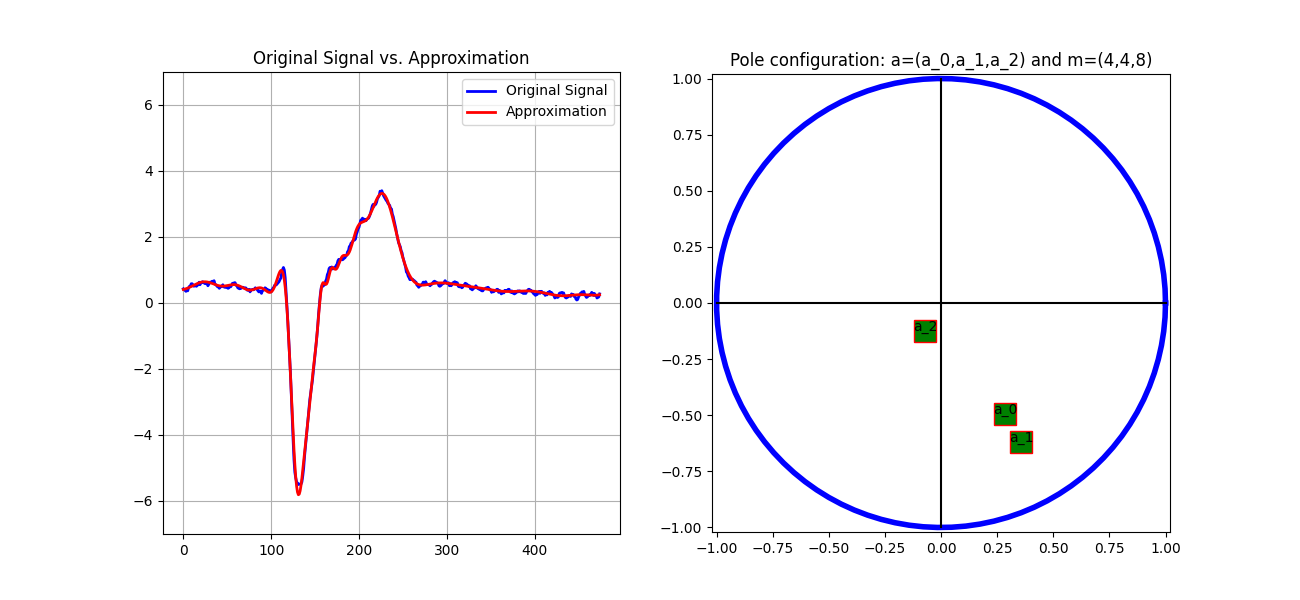
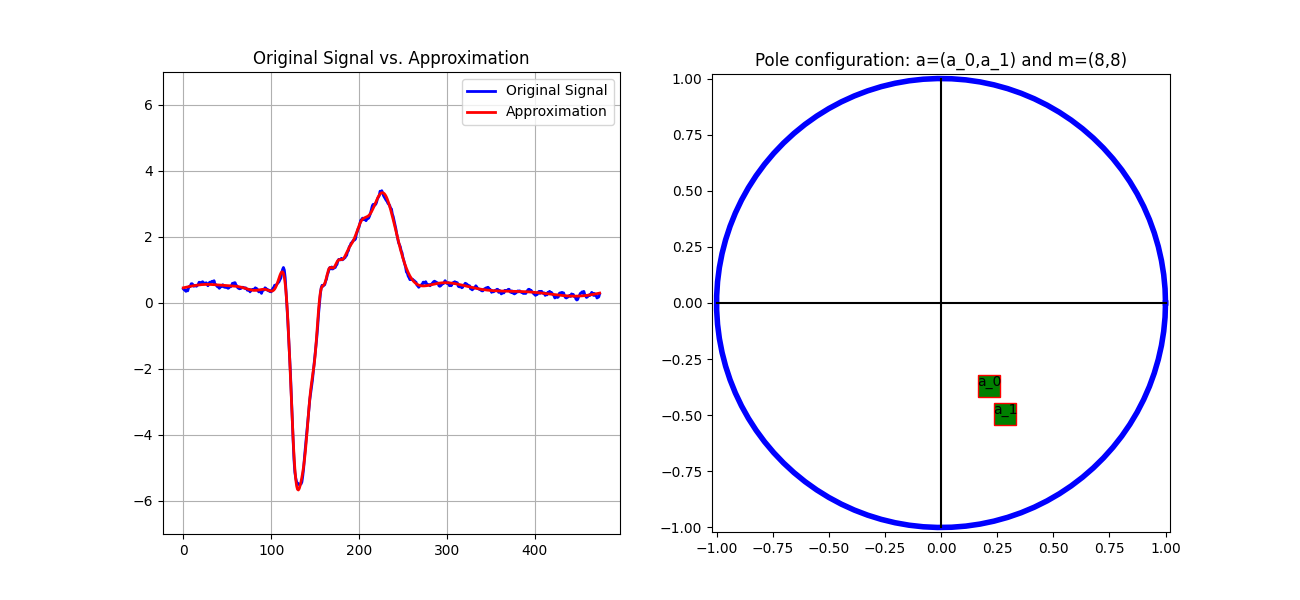
animation sequences

diff --git a/code/Rational/hyp_mdpso.py b/code/Rational/hyp_mdpso.py
@@ -264,6 +264,7 @@ def hyp_mdpso(f, ps_name, s, alpha=0.5, iterno=50, eps=None, show=False, inspart
             tt = tt[: len(f)]
 
             # Displaying the actual dbest dimension and multiplicities and lengths.
+            print("-----------------------------")
             print(f"Dbest dimension: {dbest}")
             print(f"Dbest multiplicities: {mult}")
             print(f"Dbest length: {len_f}")
@@ -307,51 +308,47 @@ def hyp_mdpso(f, ps_name, s, alpha=0.5, iterno=50, eps=None, show=False, inspart
             pn = len(mult)
             cr = (2 * (cn + pn) / len_f) * 100
 
-            plt.cla()
 
-            # plt.subplots(1, 2)
-            unit_disc = np.exp(1j * tt)
-            # plt.plot(unit_disc, 'k')
-            ax[0].plot(unit_disc, "k")
+            theta = np.linspace(0, 2 * np.pi, 100)
+            x = np.cos(theta)
+            y = np.sin(theta)
+            
+            ax[1].clear()
+            ax[1].plot(x, y, 'b', linewidth=4)
+            ax[1].plot([-1, 1], [0, 0], 'k')
+            ax[1].plot([0, 0], [-1, 1], 'k')
+            plt.axis([-1.02, 1.02, -1.02, 1.02])
             plt.title(f"step: {t}")
 
             styles = ["bo", "bx", "b.", "b+", "bs", "bv", "bp", "bh"]
             styles_best = ["ro", "rx", "r.", "r+", "rs", "rv", "rp", "rh"]
 
             for j in range(len(mult)):
-                # plt.plot(sz[j], styles[j])
-                ax[0].plot(sz[j], styles[j])
+                ax[1].plot(np.real(sz[j::len(mult)]), np.imag(sz[j::len(mult)]), styles[j])
 
             # Plotting the global best pole configuration in the dbest dimension.
             # Note: sudden changes on this figure indicate changes in the dbest dimension.
-            for i in range(len(mult)):
-                # plt.plot(array2complex(gbest_coords[i*2-1:i*2]), styles_best[i], markersize=15, linewidth=4)
-                ax[0].plot(
-                    array2complex(gbest_coords[i * 2 - 1 : i * 2]),
+            for i in range(1, len(mult)+1):
+                asd=array2complex(gbest_coords[i * 2 - 2 : i * 2])
+                asd = quant(asd, "pole", eps).T
+                ax[1].plot(
+                    np.real(asd),
+                    np.imag(asd),
                     styles_best[i],
                     markersize=15,
                     linewidth=4,
                 )
 
             # Displaying the rational approximation of the segment.
-            # plt.subplot(1, 2, 1)
-            # plt.plot(tt, np.real(hf), 'b', linewidth=4)
-            ax[1].plot(tt, np.real(hf), "b", linewidth=3)
-
-            # ax[1].plot(tt[:len_f], np.real(seg) + base_line, 'g', linewidth=3)
-            # plt.plot(tt[:len_f], np.real(fs) + base_line, 'r', linewidth=3)
-            ax[1].plot(tt[:len_f], np.real(fs_r)[0] + base_line, "r", linewidth=2)
-            # plt.plot(tt[:len_f], np.real(fs_r)[0] + base_line, 'r', linewidth=1)
-
-            # plt.legend(['Original signal', f'CR: {len_f / (2 * (cn + pn))}:1, PRD: {prd_r}'])
-            ax[1].legend(["Original signal", f"CR: {len_f / (2 * (cn + pn))}:1, PRD: {prd_r}"])
-            # plt.axis('tight')
-            ax[1].axis("tight")
-            plt.pause(0.5)
-            # plt.show()
+            ax[0].clear()
+            ax[0].plot(tt, np.real(hf), "b", linewidth=3)
+            ax[0].plot(tt[:len_f], np.real(fs_r)[0] + base_line, "r", linewidth=2)
+            ax[0].legend(["Original signal", f"CR: {len_f / (2 * (cn + pn)):.2f}:1, PRD: {prd_r:.3f} %"])
+            ax[0].axis("tight")
+            ax[0].grid(True)
+            plt.pause(0.3)
 
     # Return the gbest poles and the quantized coefficients of the dbest dimension.
-    dbest -= 1
     m = ps[dbest][0]
     poles = array2complex(xy_g[dbest])
 

diff --git a/code/example_newer.py b/code/example_newer.py
@@ -1,0 +1,85 @@
+import numpy as np
+import scipy.io as sio
+import matplotlib.pyplot as plt
+from Rational.hyp_mdpso import hyp_mdpso
+from Rational.norm_sig import norm_sig
+from Rational.rait.mt_generate import mt_generate
+from Rational.rait.multiply_poles import multiply_poles
+from Rational.rait.periodize_poles import periodize_poles
+from Rational.Hyperbolic_operators.draw_unitcircle import draw_unitcircle
+
+
+# ------------- Signal approximation by using orthogonal rational functions -------------
+
+# Setting parameters.
+ecg_dbdir = "data/"
+rec_name = "PhysioNet_MITBIH_rec119_5min.mat"
+ps_file = "data/poleconf.mat"
+acc = np.array([[3, 3], [7, 7], [8, 8]])
+alpha = 0.5
+iterno = 20
+swarm = 30
+
+# Loading an ECG record
+mat_contents = sio.loadmat(ecg_dbdir + rec_name)
+beats = mat_contents["beats"]
+ecg = mat_contents["ecg"]
+
+show = False  # <- Do not turn on for this example program.
+k = 20 # <- Number of beats to approximate
+
+fig, axes = plt.subplots(1, 2, figsize=(13, 6))
+axes[0].set_facecolor("lightblue")
+axes[1].set_facecolor("lightblue")
+
+for i in range(k):
+    
+    # Adaptive representation of the kth heartbeat in an ECG record
+    signal = beats[i]
+    signal = signal[0]
+    M = len(signal)
+    signal = np.reshape(signal, (1, M))  # signal should be a row vector.
+    signal = signal[0]
+    normsig, baseline = norm_sig(signal)  # normalizing the baseline of the signal.
+    p, c, m, dbest, l, bl, prd = hyp_mdpso(
+        normsig, ps_file, swarm, alpha, iterno, acc, show
+    )
+
+    # Reconstructing the signal
+    mpoles = periodize_poles(multiply_poles(p, m), 1)
+    mpoles = np.reshape(mpoles, (1, len(mpoles)))
+    aprx = np.real(mt_generate(M, mpoles, c))
+
+    # Plotting the original ECG and the reconstructed signal    
+    axes[1].cla()
+    draw_unitcircle(p, m)
+    unitcircle_title=axes[1].get_title()
+
+    signal=signal.flatten()
+    aprx=(aprx + baseline).flatten()
+    delay=60 # <- Approximation delay on the X axis
+
+    range_=range(0,M+delay,7)
+    range_=list(range_) +[M+delay]
+    for j in range_:
+        axes[0].cla()
+        axes[0].set_title(f"Original Signal vs. Approximation ({i+1}/{k})\nError in the sense of PRD: {prd:.2f}%")
+        axes[1].set_title(unitcircle_title + f"\nBest dimension index: {dbest}")
+        if j<M:
+            x = np.arange(0, j)
+            axes[0].plot(x, signal[0:j], "b", label="Original Signal", linewidth=4)
+        else:
+            x = np.arange(0, M)
+            axes[0].plot(x, signal, "b", label="Original Signal", linewidth=4)
+
+        if j>delay:
+            axes[0].plot(x[0:j-delay], aprx[0:j-delay], "r", label="Approximation", linewidth=2)
+        
+        axes[0].grid(True)
+        axes[0].legend()
+        axes[0].set_ylim([-6, 6])
+        axes[0].set_xlim([0, M])
+        plt.pause(0.01)
+        
+plt.show()
+

diff --git a/code/example.py b/code/example.py
@@ -25,7 +25,7 @@ mat_contents = sio.loadmat(ecg_dbdir + rec_name)
 beats = mat_contents["beats"]
 ecg = mat_contents["ecg"]
 
-show = False  # <-Displays an animation about the optimization.
+show = True  # <-Displays an animation about the optimization.
 
 # Adaptive representation of the kth heartbeat in an ECG record
 k = 0
@@ -57,7 +57,6 @@ print(f'Inverse pole configuration in the best dimension: m=({", ".join(map(str,
 # Plotting the original ECG and the reconstructed signal
 fig, axes = plt.subplots(1, 2, figsize=(13, 6))
 draw_unitcircle(p, m)
-
 x = np.arange(0, M)
 
 axes[0].set_title("Original Signal vs. Approximation")
@@ -65,7 +64,7 @@ axes[0].plot(x, signal.flatten(), "b", label="Original Signal", linewidth=2)
 axes[0].plot(x, (aprx + baseline).flatten(), "r", label="Approximation", linewidth=2)
 axes[0].grid(True)
 axes[0].legend()
-axes[0].set_ylim([-7, 7])
+axes[0].set_ylim([-6, 6])
 
 # Saving the resulting plot to a PNG file
 plt.savefig("results/rational_signal_approx.png")
